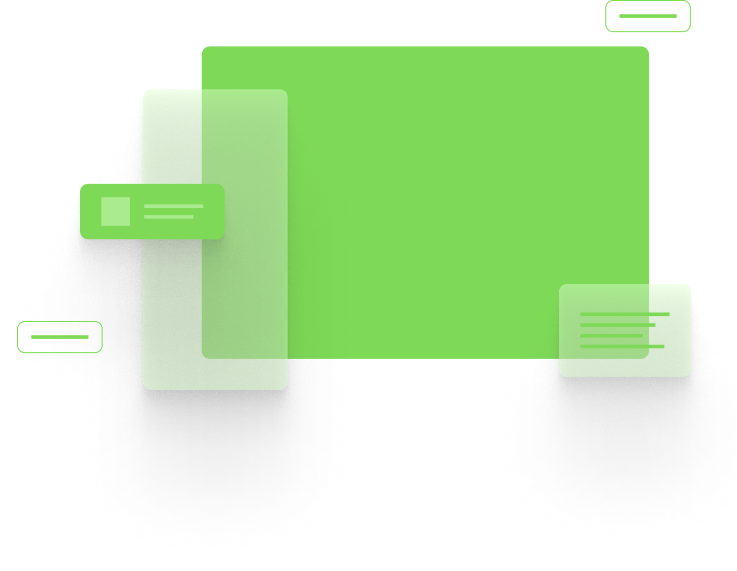
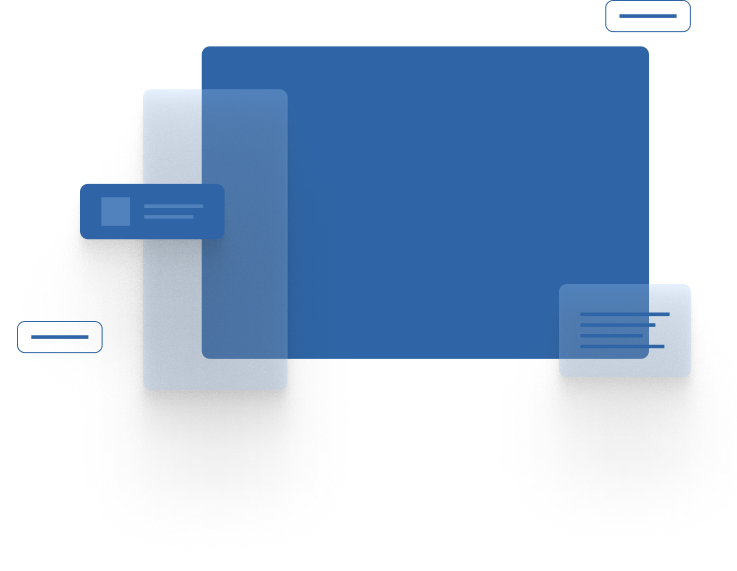
color fix

diff --git a/src/components/Header.vue b/src/components/Header.vue
@@ -2,7 +2,9 @@
   <div class="header" :style="{'position': !fixed?'fixed':''}">
     <div class="header__content">
       <router-link tag="div" to="/" class="header__logo cursor-pointer ">
-        <img src="../assets/img/header/session.png" alt="">
+        <div class="header__img">
+          <img src="../assets/img/header/session.png" alt="">
+        </div>
       </router-link>
 
       <div class="header__nav">
@@ -104,7 +106,14 @@
       display: flex;
       justify-content: space-between;
       align-items: center;
+      
+    }
 
+    .header__img{
+      img{
+      max-width: 80%;
+
+      }
     }
 
     .header__nav{

diff --git a/src/components/Description.vue b/src/components/Description.vue
@@ -56,7 +56,7 @@
 
 <style lang="scss" scoped>
 .description{
-    background: rgba(222, 255, 207, 0.47);
+    background: #A6CAF555;
     padding: 237px 0px 127px 0px;
     p{
         margin-bottom: 0px;

diff --git a/src/components/Team.vue b/src/components/Team.vue
@@ -63,7 +63,7 @@
 
 <style lang="scss" scoped>
 .team{
-    background: rgba(222, 255, 207, 0.47);
+    background: #A6CAF555;
     padding: 57px 0px 0px 0px;
     p{
         margin-bottom: 0px;

diff --git a/src/components/Functional.vue b/src/components/Functional.vue
@@ -129,7 +129,7 @@
     }
 }
 .functional__button {
-    background: #BDF8A4;
+    background: #A6CAF555;
     border-radius: 26px;
     max-width: 229px;
     height: 52px;

diff --git a/src/components/Footer.vue b/src/components/Footer.vue
@@ -17,7 +17,7 @@
 
 <style lang="scss" scoped>
 .footer {
-    background: rgba(222, 255, 207, 0.47);
+    background: #A6CAF555;
     p{
       margin-bottom: 0px;
     }

diff --git a/src/views/Main.vue b/src/views/Main.vue
@@ -6,10 +6,6 @@
     <Team />
     <Connect />
     <Footer />
-    
-    <div class="mt-4 wrapper">
-      
-    </div>
   </div>
 </template>
 
